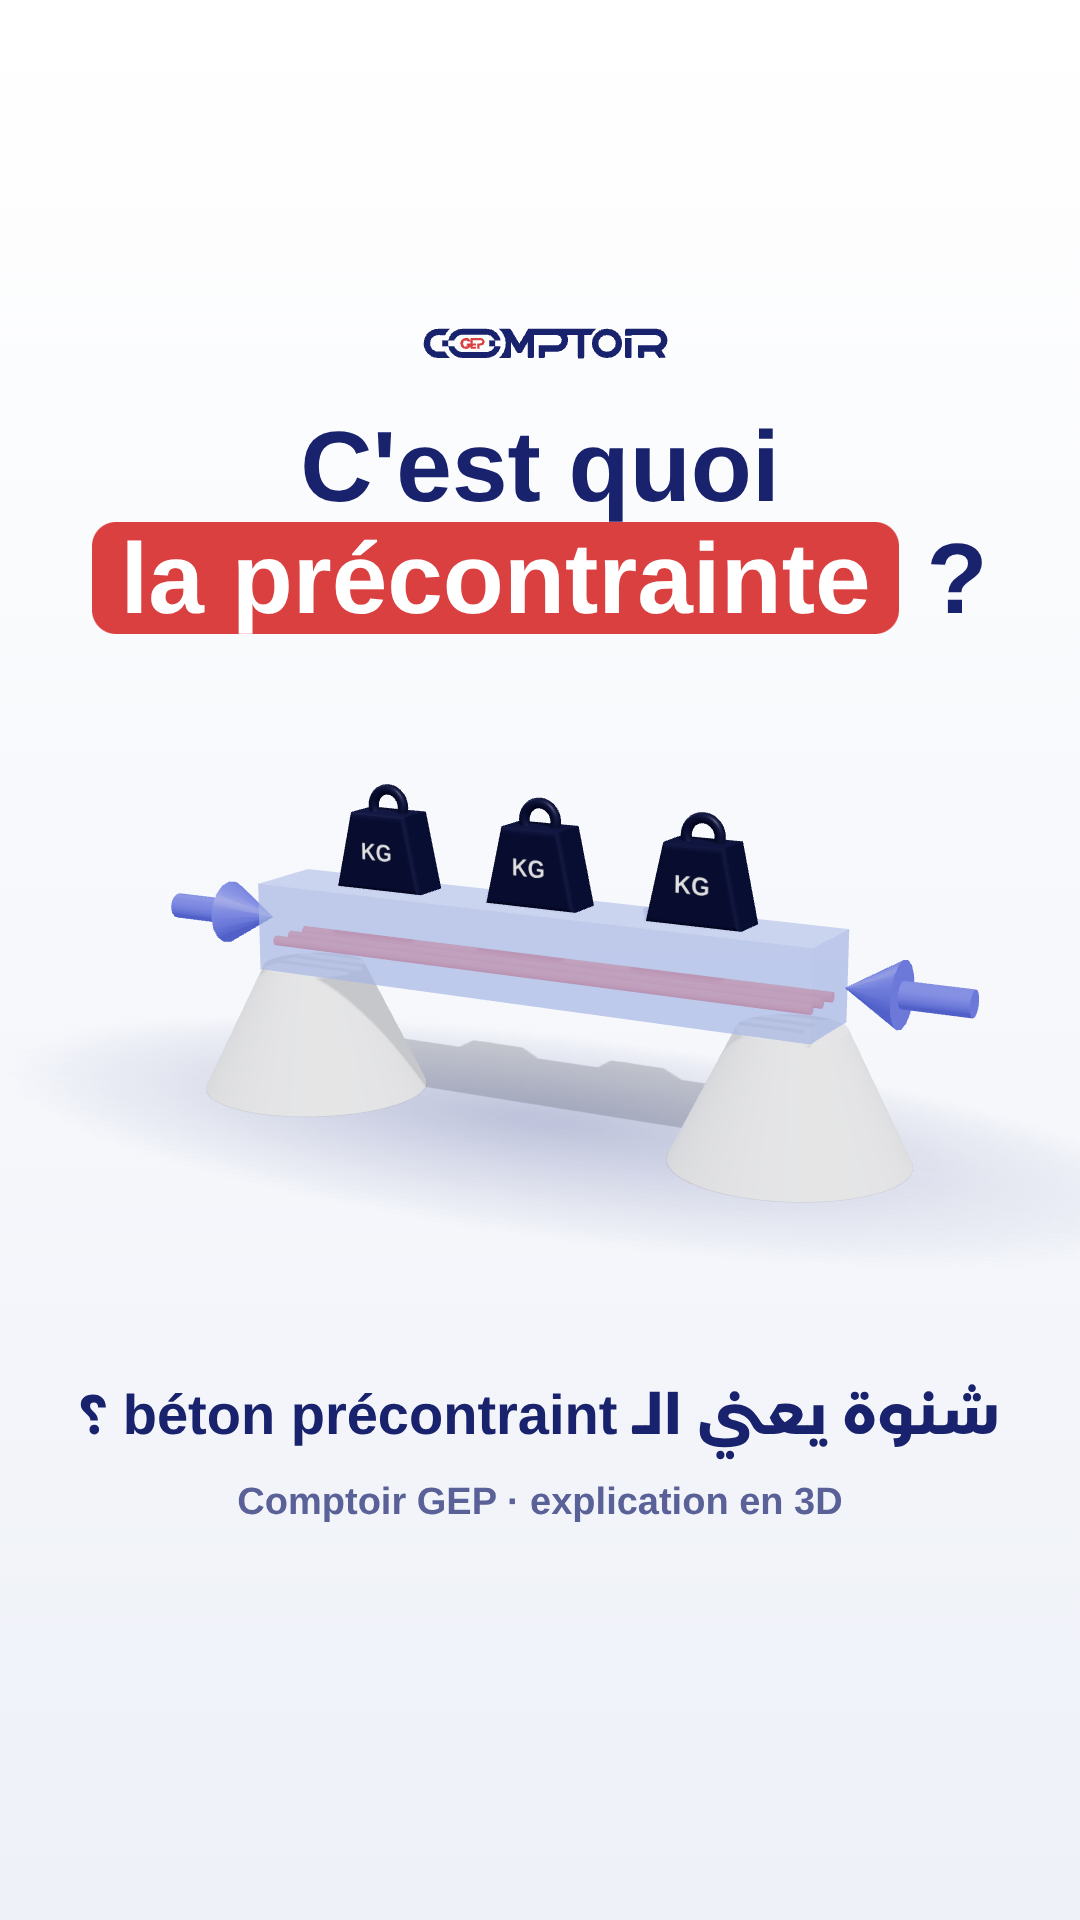
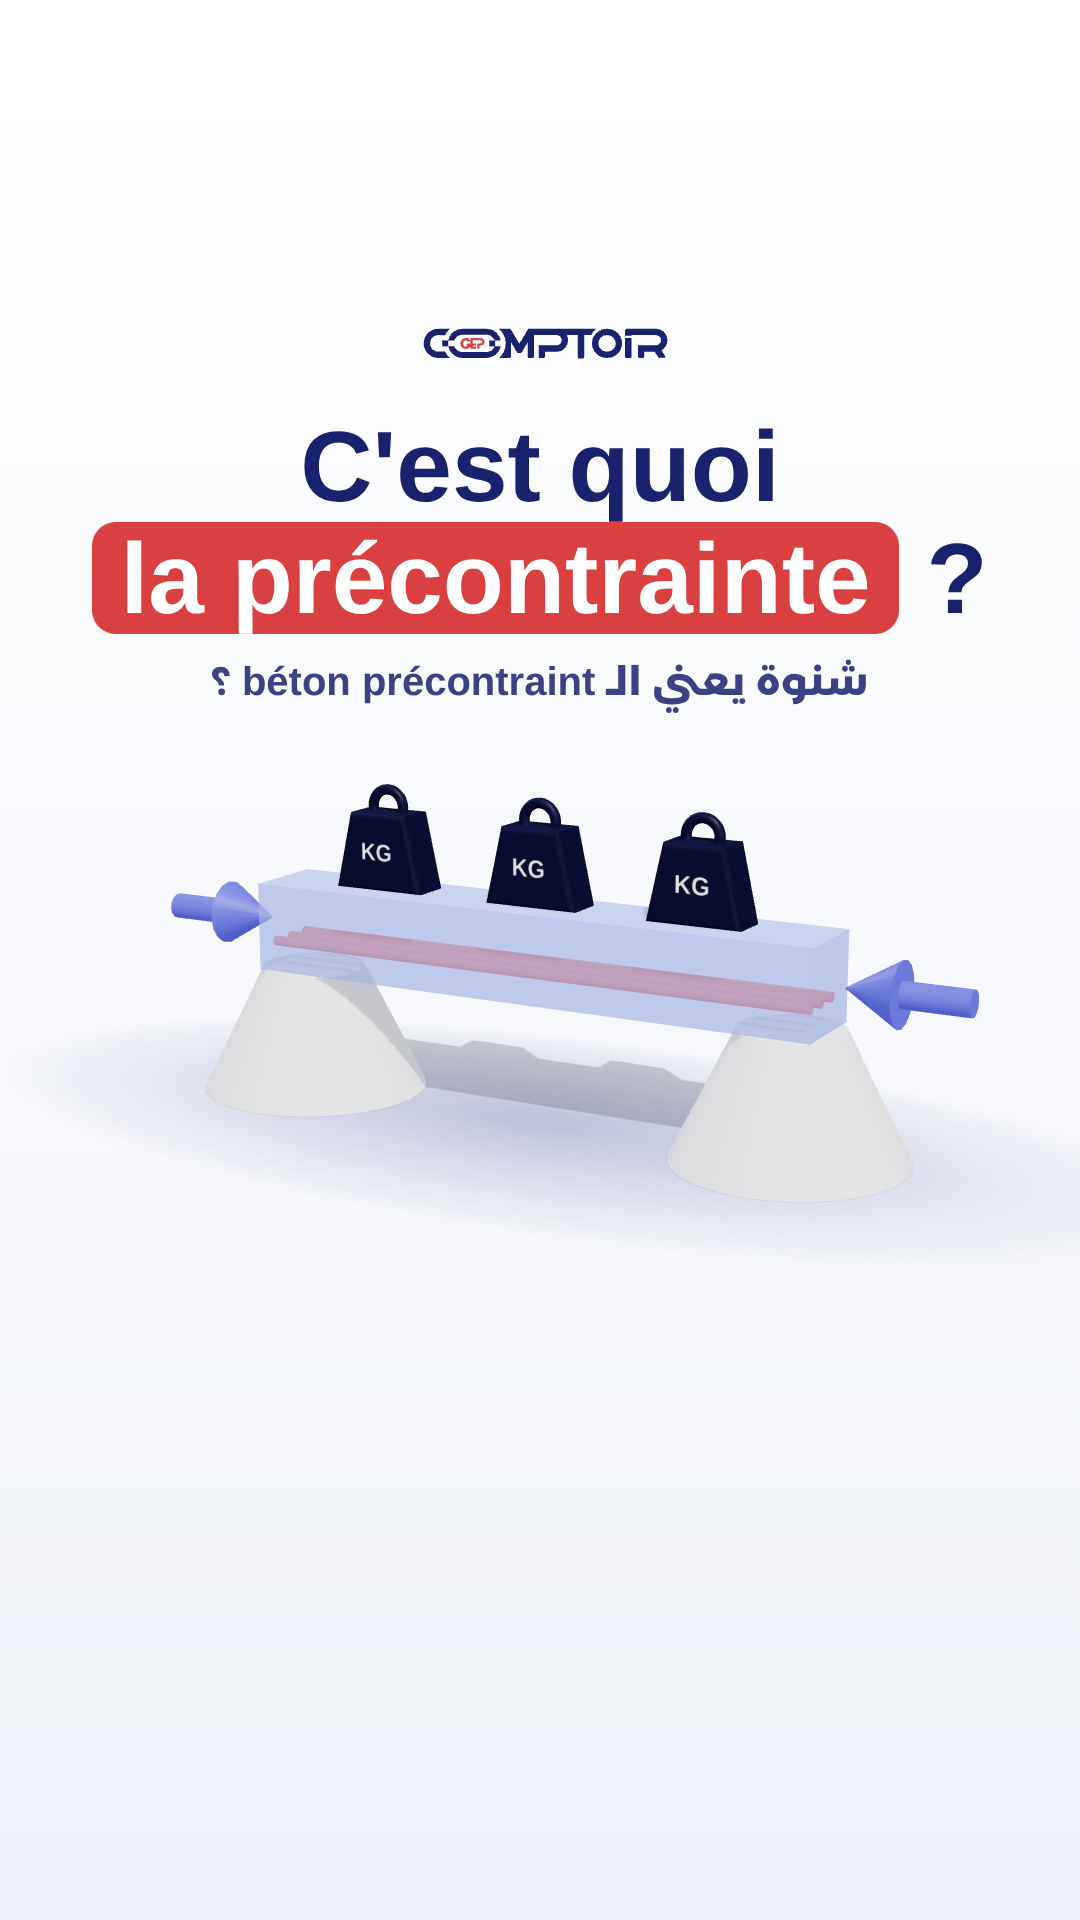
Precontrainte cover: remove subtitle, small Arabic line under the red pill
Claude-Session: https://claude.ai/code/session_016XPJXH2wCtUvwpuaC7L97f

Changed region(s): [[0.0611, 0.7188, 0.9167, 0.8125], [0.1833, 0.3438, 0.7944, 0.375], [0.2444, 0.7812, 0.3667, 0.8125]]

diff --git a/comptoir-gep-video/remotion/src/prec/CoverPrec.tsx b/comptoir-gep-video/remotion/src/prec/CoverPrec.tsx
@@ -32,9 +32,8 @@ export const CoverPrec: React.FC = () => {
         <div style={{ position: "absolute", left: 60, right: 60, top: 410, textAlign: "center", color: NAVY, fontWeight: 800 }}>
           <div style={{ fontSize: 100, lineHeight: 1.12 }}>C'est quoi</div>
           <div style={{ fontSize: 100, lineHeight: 1.12 }}><span style={{ background: RED, color: "#fff", borderRadius: 24, padding: "0 28px" }}>la précontrainte</span> ?</div>
+          <div style={{ direction: "rtl", fontSize: 40, fontWeight: 700, marginTop: 22, opacity: 0.85 }}>شنوة يعني الـ béton précontraint ؟</div>
         </div>
-        <div style={{ position: "absolute", left: 0, right: 0, top: 1380, textAlign: "center", direction: "rtl", fontSize: 56, fontWeight: 700, color: NAVY }}>شنوة يعني الـ béton précontraint ؟</div>
-        <div style={{ position: "absolute", left: 0, right: 0, top: 1480, textAlign: "center", fontSize: 38, fontWeight: 600, color: NAVY, opacity: 0.7 }}>Comptoir GEP · explication en 3D</div>
       </AbsoluteFill>
     </FontLoader>
   );
